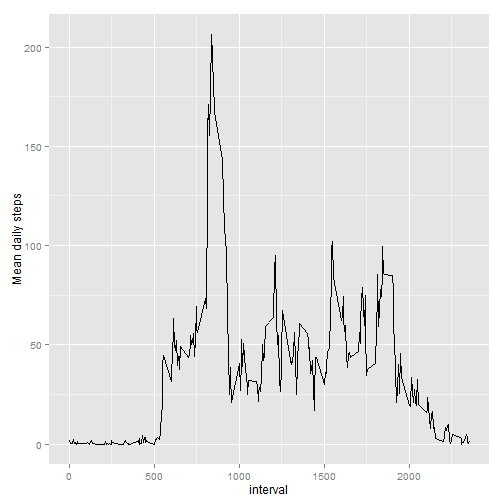
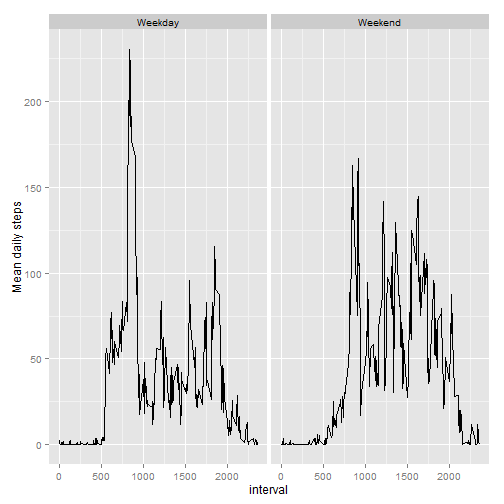
Removed a incorrect chart

diff --git a/PA1_template.html b/PA1_template.html
@@ -223,7 +223,7 @@ library(stringr)
 activity$datetime&lt;-strptime(paste(activity$date,str_pad(activity$interval,4,pad=&quot;0&quot;)),format=&quot;%Y-%m-%d %H%M&quot;)
 </code></pre>
 
-<p>#What is the mean total number of steps taken per day?</p>
+<p>##What is the mean total number of steps taken per day?</p>
 
 <pre><code class="r">totalDailySteps&lt;-tapply(activity$steps,activity$date,sum)
 library(ggplot2)
@@ -251,7 +251,7 @@ qplot(totalDailySteps)
 <pre><code>## [1] 10765
 </code></pre>
 
-<p>#What is the average daily activity pattern?</p>
+<p>##What is the average daily activity pattern?</p>
 
 <pre><code class="r">meanDailyStepsbytime&lt;-aggregate(activity$steps,by=list(activity$interval),mean,na.rm=TRUE)
 library(ggplot2)
@@ -268,7 +268,7 @@ qplot(Group.1,x,data=meanDailyStepsbytime,geom=&quot;line&quot;,xlab=&quot;inter
 <pre><code>## [1] 835
 </code></pre>
 
-<p>#Inputting missing values</p>
+<p>##Inputting missing values</p>
 
 <p>There are </p>
 
@@ -316,17 +316,12 @@ qplot(totalDailySteps)
 <pre><code>## [1] 10766.19
 </code></pre>
 
-<p>#Are there differences in activity patterns between weekdays and weekends?</p>
+<p>##Are there differences in activity patterns between weekdays and weekends?</p>
 
 <pre><code class="r">activity$weekday&lt;-weekdays(activity$datetime)
 activity$weekdaytype&lt;-as.factor(with(activity, ifelse(weekday %in% c(&quot;Saturday&quot;,&quot;Sunday&quot;),&quot;Weekend&quot;,&quot;Weekday&quot;)))
 meanDailyStepsbyweekdaytime&lt;-aggregate(activity$steps,by=list(activity$weekdaytype,activity$interval),mean)
-qplot(Group.1,x,data=meanDailyStepsbytime,geom=&quot;line&quot;,xlab=&quot;interval&quot;,ylab=&quot;Mean daily steps&quot;)
-</code></pre>
-
[1 lines of base64/hex data omitted]
-
-<pre><code class="r">qplot(Group.2,x,data=meanDailyStepsbyweekdaytime,geom=&quot;line&quot;,xlab=&quot;interval&quot;,ylab=&quot;Mean daily steps&quot;,facets=.~Group.1)
+qplot(Group.2,x,data=meanDailyStepsbyweekdaytime,geom=&quot;line&quot;,xlab=&quot;interval&quot;,ylab=&quot;Mean daily steps&quot;,facets=.~Group.1)
 </code></pre>
 
[1 lines of base64/hex data omitted]

diff --git a/PA1_template.md b/PA1_template.md
@@ -30,7 +30,7 @@ library(stringr)
 activity$datetime<-strptime(paste(activity$date,str_pad(activity$interval,4,pad="0")),format="%Y-%m-%d %H%M")
 ```
 
-#What is the mean total number of steps taken per day?
+##What is the mean total number of steps taken per day?
 
 ```r
 totalDailySteps<-tapply(activity$steps,activity$date,sum)
@@ -64,7 +64,7 @@ median(totalDailySteps,na.rm=TRUE)
 ## [1] 10765
 ```
 
-#What is the average daily activity pattern?
+##What is the average daily activity pattern?
 
 ```r
 meanDailyStepsbytime<-aggregate(activity$steps,by=list(activity$interval),mean,na.rm=TRUE)
@@ -84,7 +84,7 @@ meanDailyStepsbytime[which.max(meanDailyStepsbytime$x),"Group.1"]
 ## [1] 835
 ```
 
-#Inputting missing values
+##Inputting missing values
 
 There are 
 
@@ -141,22 +141,16 @@ median(totalDailySteps)
 ## [1] 10766.19
 ```
 
-#Are there differences in activity patterns between weekdays and weekends?
+##Are there differences in activity patterns between weekdays and weekends?
 
 ```r
 activity$weekday<-weekdays(activity$datetime)
 activity$weekdaytype<-as.factor(with(activity, ifelse(weekday %in% c("Saturday","Sunday"),"Weekend","Weekday")))
 meanDailyStepsbyweekdaytime<-aggregate(activity$steps,by=list(activity$weekdaytype,activity$interval),mean)
-qplot(Group.1,x,data=meanDailyStepsbytime,geom="line",xlab="interval",ylab="Mean daily steps")
-```
-
-![plot of chunk unnamed-chunk-13](figure/unnamed-chunk-13-1.png) 
-
-```r
 qplot(Group.2,x,data=meanDailyStepsbyweekdaytime,geom="line",xlab="interval",ylab="Mean daily steps",facets=.~Group.1)
 ```
 
-![plot of chunk unnamed-chunk-13](figure/unnamed-chunk-13-2.png) 
+![plot of chunk unnamed-chunk-13](figure/unnamed-chunk-13-1.png) 
 
 
 
